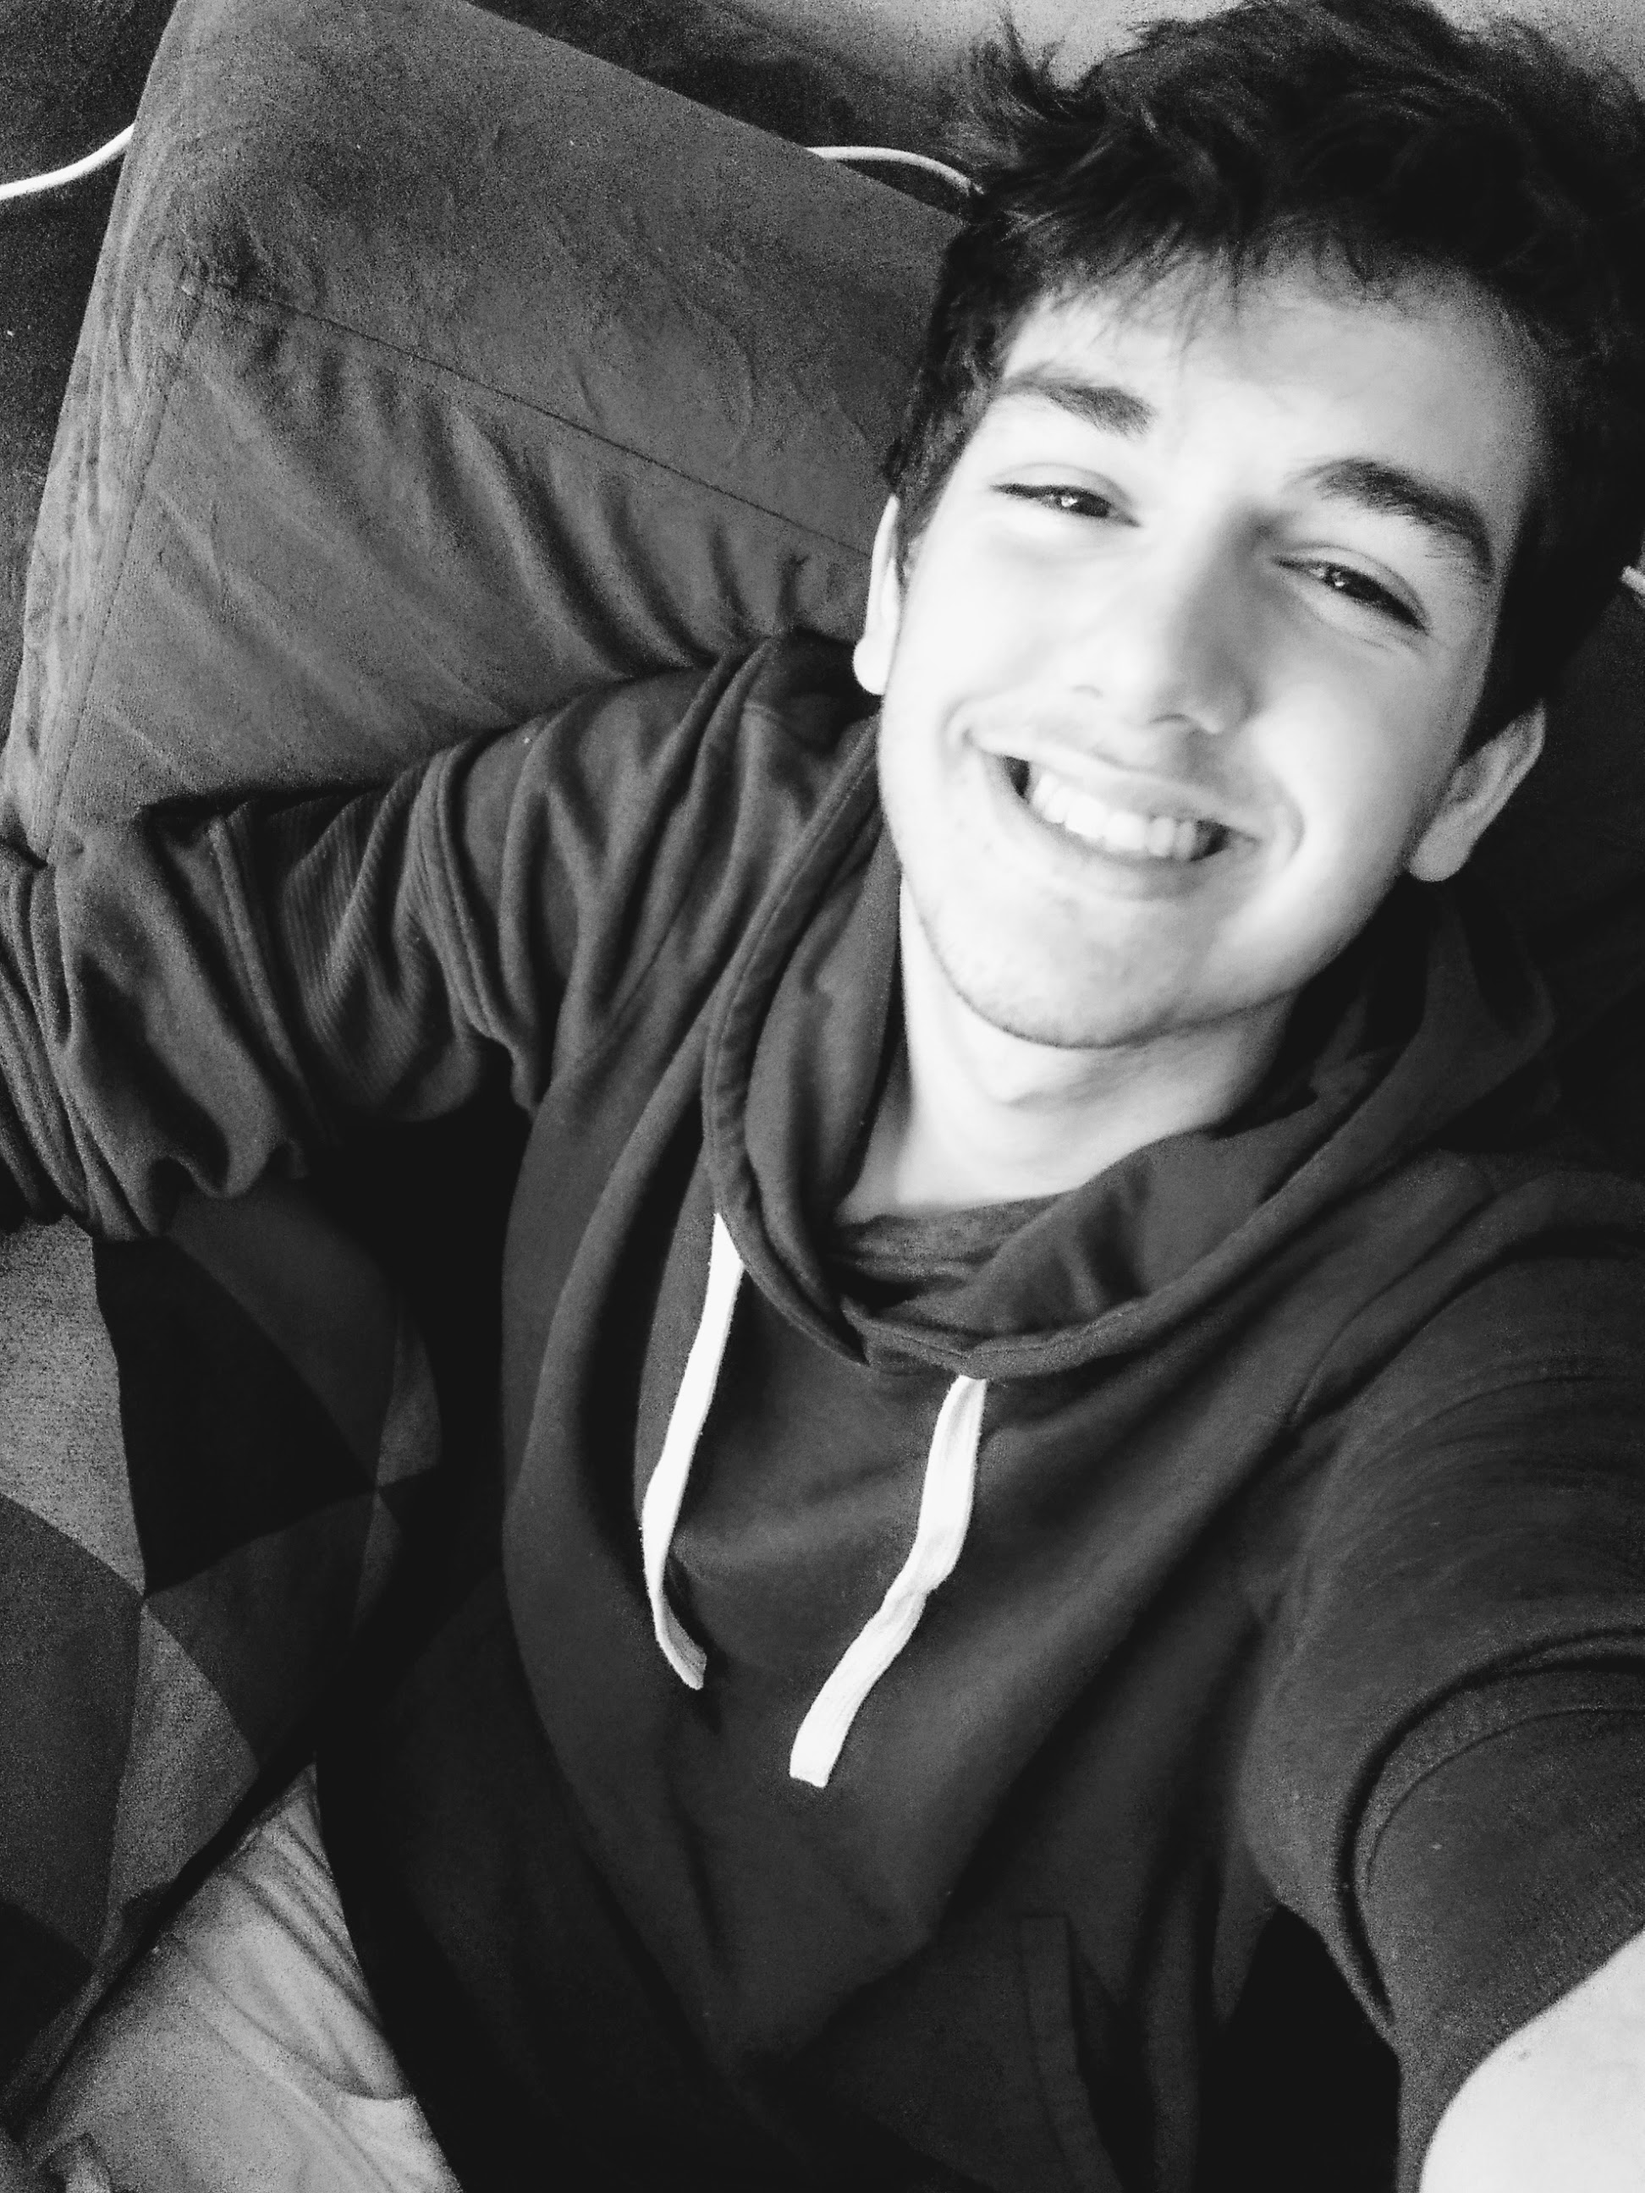
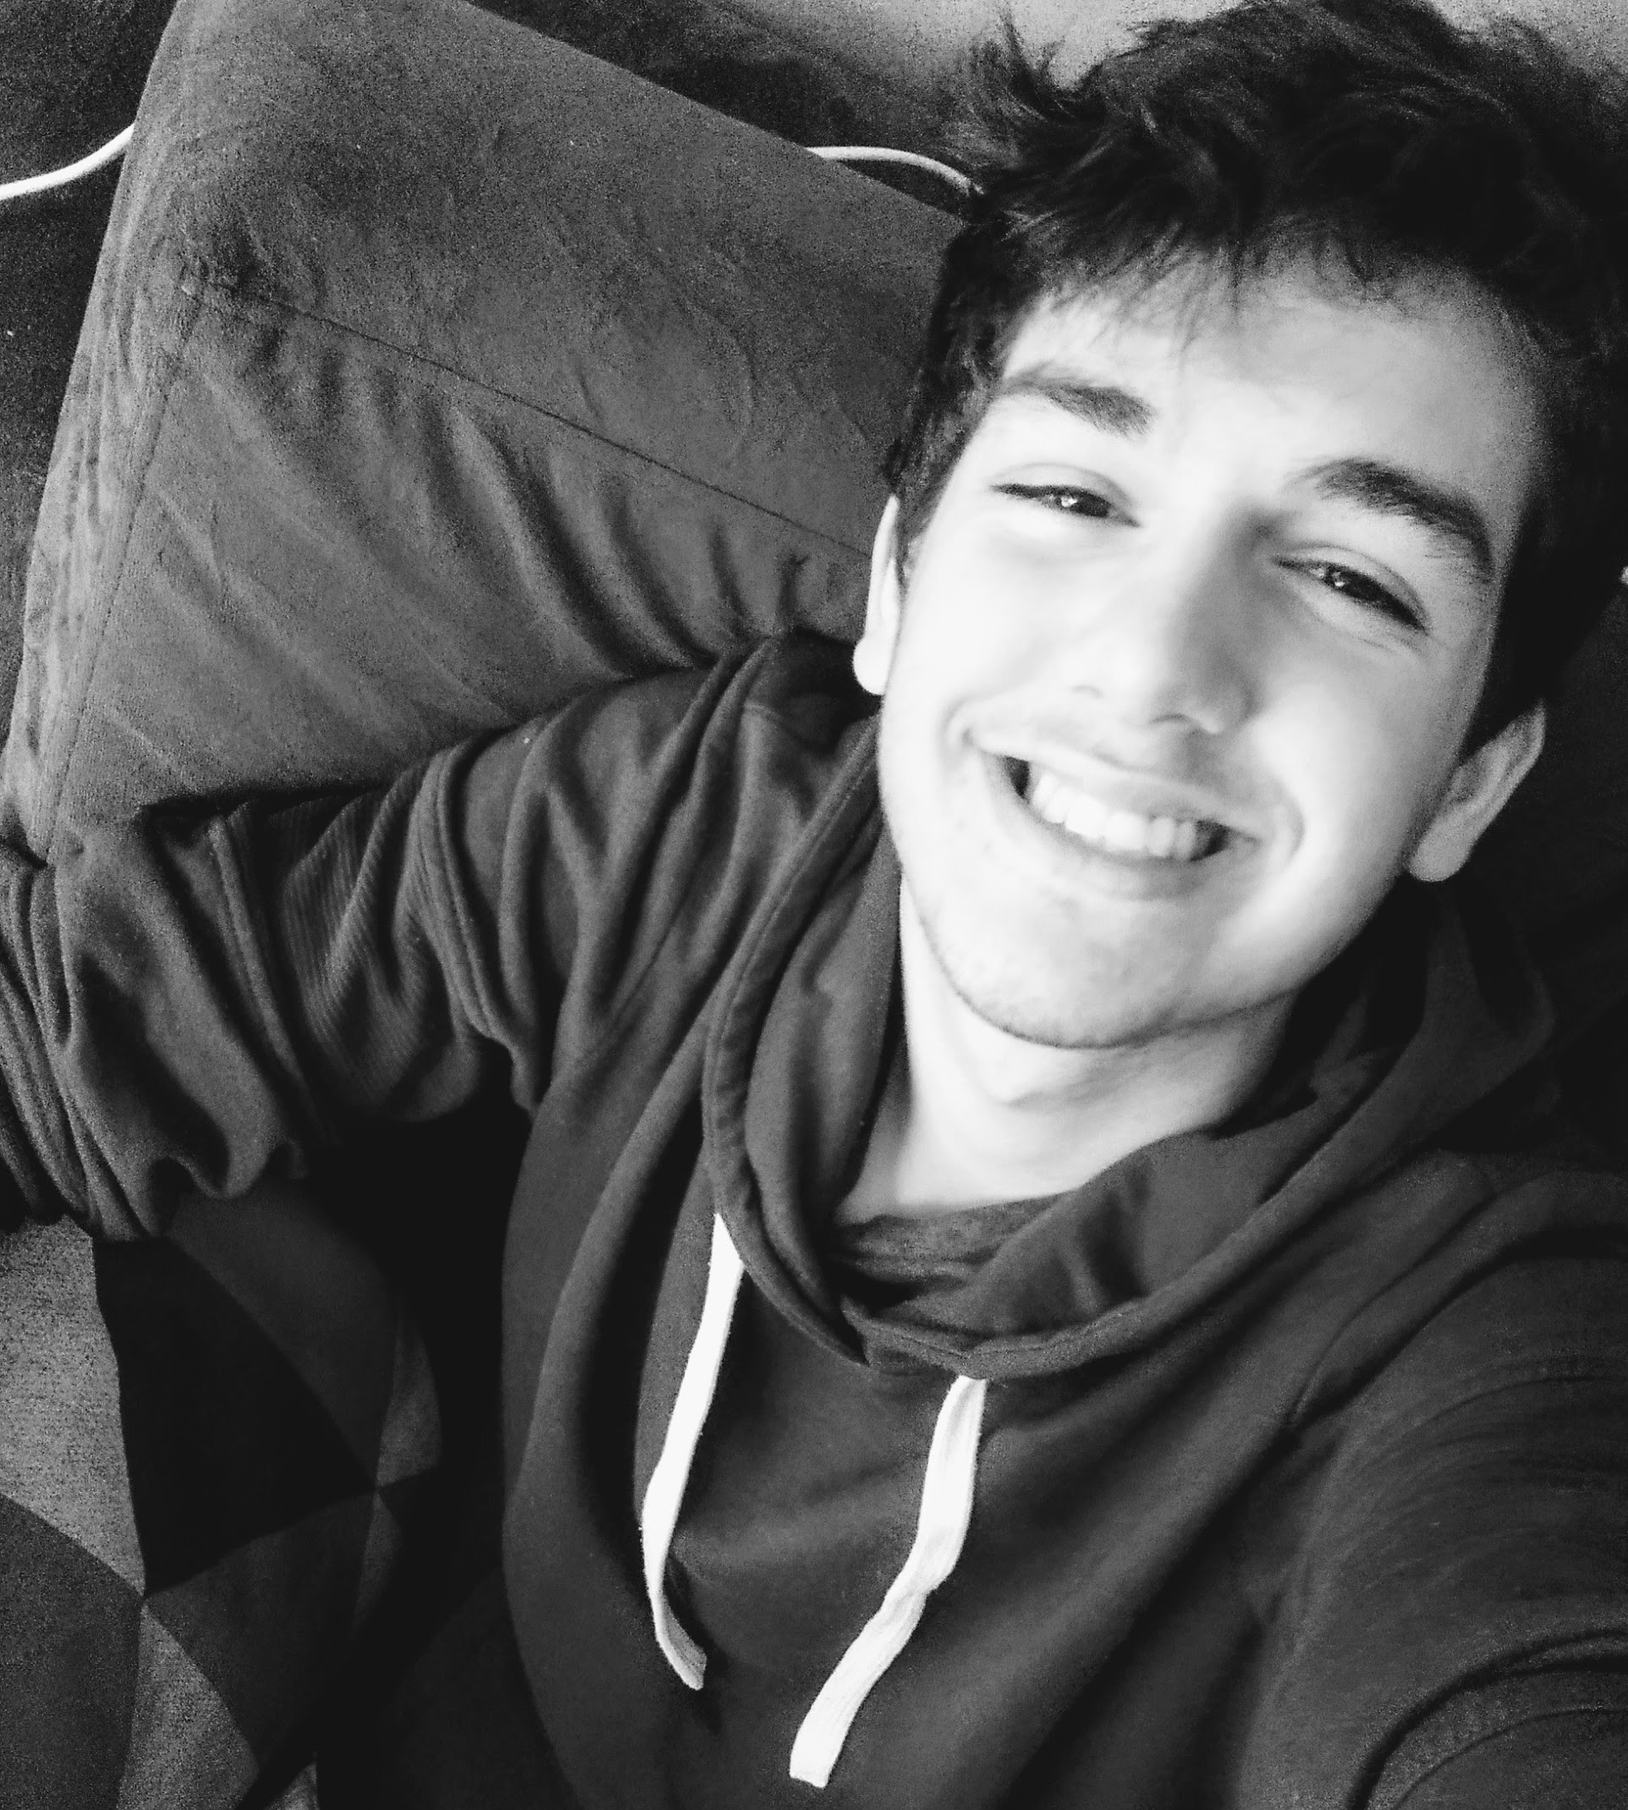
implementação menu mobile e otimização do layout responsivo

diff --git a/estilo/style.css b/estilo/style.css
@@ -5,7 +5,11 @@
 }
  	
  	/**Boot CSS**/
-
+ img{
+ 	width: 100%;
+ 	max-width: 400px;
+ 	max-height: 400px;
+ }
  .center{
  	max-width: 1280px;
  	padding:0 2%; 
@@ -15,6 +19,7 @@
  	width: 33.3%;
  }
  .w50{
+ 	padding: 0 2%;
  	width:50%;
  }
  .left{
@@ -82,7 +87,7 @@ section.banner-principal{
 
 section.banner-principal form{
 	max-width: 600px;
-	width:98%;
+	width:90%;
 	z-index: 2;
 	position: absolute;
 	left:50%;
@@ -106,7 +111,7 @@ section.banner-principal form input[type=email]{
 	color: #333;
 	font-size:22px;
 	padding-left:10px;
-	
+
 }
 
 section.banner-principal form input[type=submit]{
@@ -117,11 +122,81 @@ section.banner-principal form input[type=submit]{
 	color: white;
 	cursor: pointer;
 	font-size:22px;
-	border:0;
-	
+	border:0;	
 }
 
+section.descricao-autor{
+	padding:30px 0;
+}
 
+section.descricao-autor h2{
+	font-size: 28px;
+	font-weight: 400;
+	color:#444;
+}
+
+section.descricao-autor p{
+	font-size: 16px;
+	color:#444;
+	margin-top:10px;
+}
+
+@media screen and (max-width: 700px){
+	nav.desktop{
+		display:none;
+	}
+
+	nav.mobile{
+		display: block;
+	}
+
+	.botao-menu-mobile{
+		font-size:26px;
+		cursor:pointer;
+		color:white;
+	}
+
+	nav.mobile ul{
+		z-index: 3;
+		left: 0;
+		top: 55px;
+		position: absolute;
+		display: block;
+		text-align:center;
+		width: 100%;
+	}
+
+	nav.mobile li{
+
+		width:100%;
+		display: block;
+		background: white;
+		border-bottom: 1px solid #ccc;
+		font-size: 17px;
+		padding: 8px 0;
+
+	}
+
+	nav.mobile a{
+		display: block;
+		color: #444;
+		text-decoration: none;
+	}
+}
+
+@media screen and (max-width:768px){
+	img{
+		float: none !important;
+		display: block;
+		margin:0 auto;
+		
+	}
+	.w50{
+		padding: 20px;
+		width: 100%;
+	}
+	
+}
 
 
 

diff --git a/index.php b/index.php
@@ -22,6 +22,9 @@
 				</ul>	
 			</nav>
 			<nav class="mobile right">
+				<div class="botao-menu-mobile">
+					<i class="fa fa-bars" aria-hidden="true"></i>
+				</div><!--botao-menu-mobile-->
 				<ul>
 					<li><a href="">Home</a></li>
 					<li><a href="">Sobre</a></li>
@@ -53,7 +56,7 @@
 		 	</div><!--w50-->
 		 	<div  class="w50 left">
 				<!--pegar imagem depois-->
-				<img src="images/Gui.jpg" width="320" height="340"/>
+				<img class="right" src="images/Gui.jpg"/>
 		 	</div><!--w50-->
 		 	<div class="clear"></div><!--clear-->
 	    </div><!--center-->
